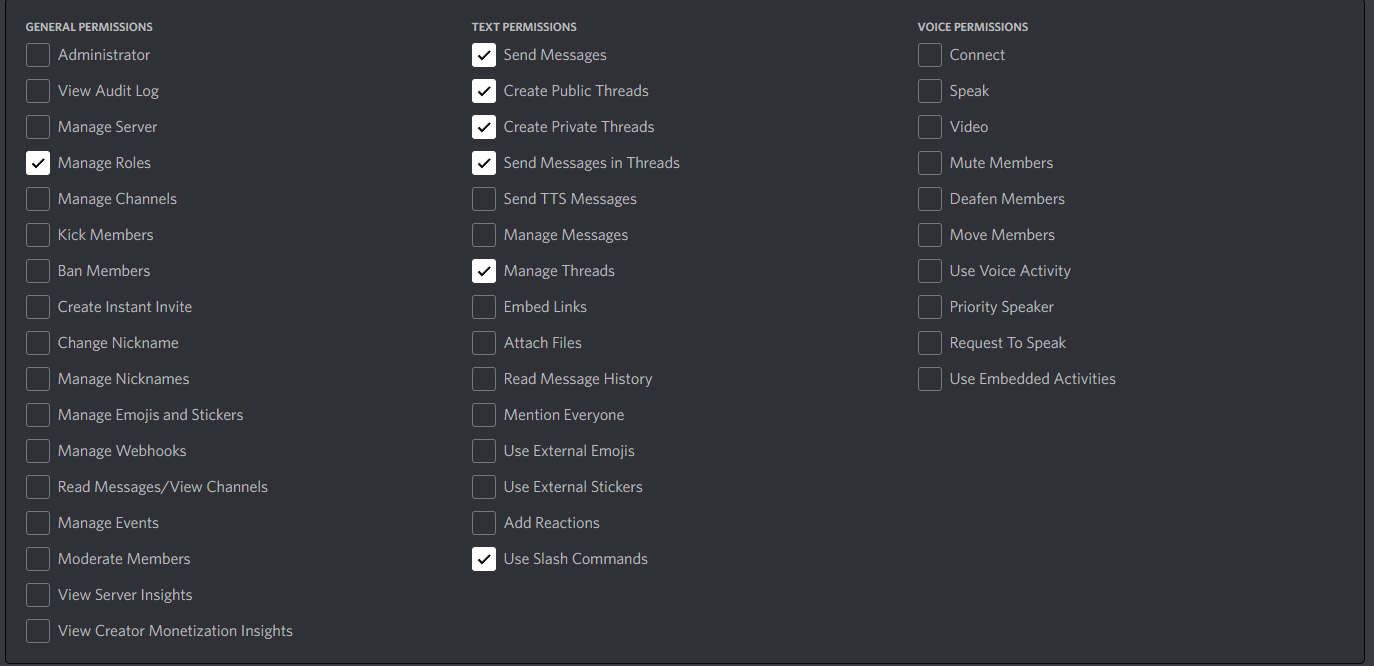
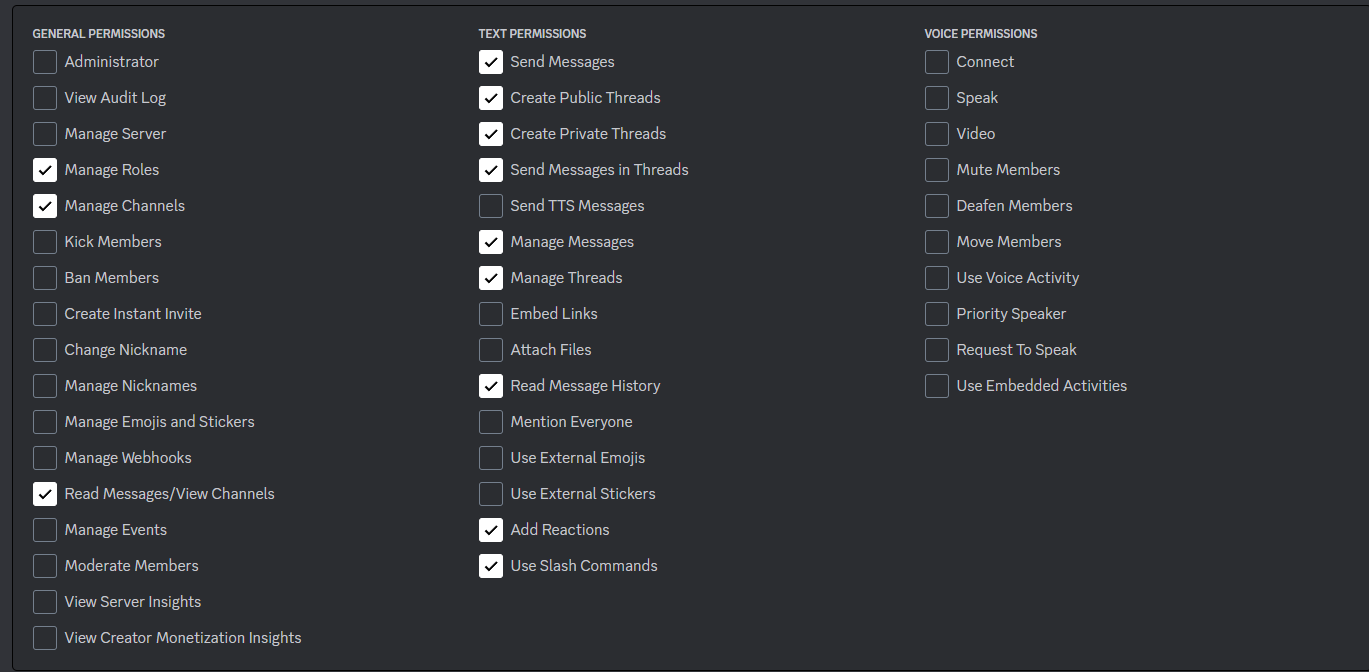
preparing for test branch env

diff --git a/internal/discord/channels.go b/internal/discord/channels.go
@@ -51,11 +51,11 @@ func initChannels() error {
 		}
 		err = session.ChannelPermissionSet(HowToChannel.ID, GuildID, discordgo.PermissionOverwriteTypeRole, 0, discordgo.PermissionSendMessages)
 		if err != nil {
-			log.Fatal("failed to lock channel matches: ", err.Error())
+			log.Fatal("failed to lock channel how-to: ", err.Error())
 		}
-		err = session.ChannelPermissionSet(HowToChannel.ID, ApplicationRole.ID, discordgo.PermissionOverwriteTypeRole, discordgo.PermissionSendMessages, 0)
+		err = session.ChannelPermissionSet(HowToChannel.ID, session.State.User.ID, discordgo.PermissionOverwriteTypeMember, discordgo.PermissionSendMessages, 0)
 		if err != nil {
-			log.Fatal("failed to open channel matches for bot: ", err.Error())
+			log.Fatal("failed to open channel how-to for bot: ", err.Error())
 		}
 	}
 	if MatchesChannel == nil {
@@ -67,7 +67,7 @@ func initChannels() error {
 		if err != nil {
 			log.Fatal("failed to lock channel matches: ", err.Error())
 		}
-		err = session.ChannelPermissionSet(MatchesChannel.ID, ApplicationRole.ID, discordgo.PermissionOverwriteTypeRole, discordgo.PermissionSendMessages, 0)
+		err = session.ChannelPermissionSet(MatchesChannel.ID, session.State.User.ID, discordgo.PermissionOverwriteTypeMember, discordgo.PermissionSendMessages, 0)
 		if err != nil {
 			log.Fatal("failed to open channel matches for bot: ", err.Error())
 		}
@@ -87,7 +87,7 @@ func initChannels() error {
 		if err != nil {
 			log.Fatal("failed to lock channel credits-leaderboard: ", err.Error())
 		}
-		err = session.ChannelPermissionSet(LeaderboardChannel.ID, ApplicationRole.ID, discordgo.PermissionOverwriteTypeRole, discordgo.PermissionSendMessages, 0)
+		err = session.ChannelPermissionSet(LeaderboardChannel.ID, session.State.User.ID, discordgo.PermissionOverwriteTypeMember, discordgo.PermissionSendMessages, 0)
 		if err != nil {
 			log.Fatal("failed to open channel credits-leaderboard for bot: ", err.Error())
 		}
@@ -101,7 +101,7 @@ func initChannels() error {
 		if err != nil {
 			log.Fatal("failed to lock channel rank-up: ", err.Error())
 		}
-		err = session.ChannelPermissionSet(RankUpChannel.ID, ApplicationRole.ID, discordgo.PermissionOverwriteTypeRole, discordgo.PermissionSendMessages, 0)
+		err = session.ChannelPermissionSet(RankUpChannel.ID, session.State.User.ID, discordgo.PermissionOverwriteTypeMember, discordgo.PermissionSendMessages, 0)
 		if err != nil {
 			log.Fatal("failed to open channel rank-up for bot: ", err.Error())
 		}

diff --git a/internal/discord/roles.go b/internal/discord/roles.go
@@ -1,8 +1,6 @@
 package discord
 
 import (
-	"strings"
-
 	"github.com/bwmarrin/discordgo"
 	log "github.com/sirupsen/logrus"
 )
@@ -15,7 +13,6 @@ var RoleGold *discordgo.Role
 var RoleSilver *discordgo.Role
 var RoleBronze *discordgo.Role
 var RoleRookie *discordgo.Role
-var ApplicationRole *discordgo.Role
 
 var RankRoles []*discordgo.Role
 
@@ -25,9 +22,6 @@ func initRoles() error {
 		return err
 	}
 	for _, role := range roles {
-		if strings.Contains(role.Name, "eu-omega-strikers") {
-			ApplicationRole = role
-		}
 		if role.Name == "Omega" {
 			RoleOmega = role
 		}

diff --git a/readme.md b/readme.md
@@ -10,7 +10,7 @@
 
 # bot permissions on discord dev portal
 ![perms.png](screens/perms.png)
-url : https://discord.com/api/oauth2/authorize?client_id={clientid}&permissions=397552987216&scope=applications.commands%20bot
+url : https://discord.com/api/oauth2/authorize?client_id={clientid}&permissions=397552920592&scope=applications.commands%20bot
 
 # features
 
